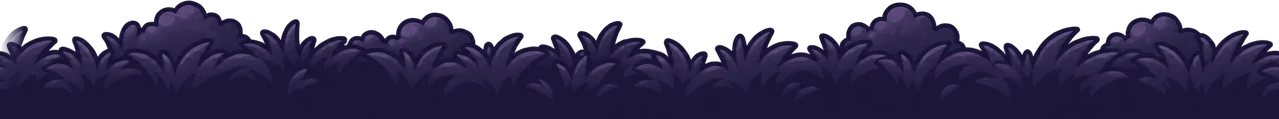
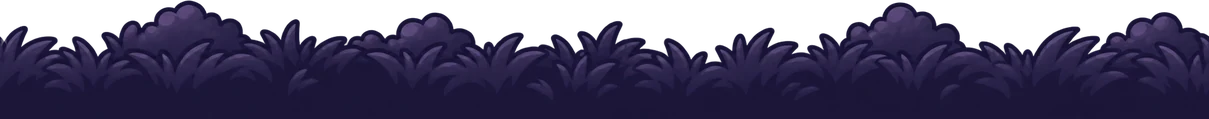
Boyalı arka planlar: beş bölgenin beşi
Orman, bulutlar, yörünge ve buz kuşağının üçer katmanı da resimli.
Resimle değişen yalnız sabit silüetler; hareketli detaylar (ateşböcekleri,
kuşlar, nebula, dönen uydular, kuyruklu yıldızlar) kodda kalıp resmin
önünde/arkasında yaşıyor. Katman yerleri bölgeye değil türe göre: dünya
boyu atlas yüksekliğinden türüyor.

Ek yeri: sabit yerden 40 px harman, kenar yükseklikleri tutmayan
katmanlarda ek yerindeki bulutu/kristali yarı saydam iki kopya yapıyordu.
Şimdi sağ uçta sol kenara en çok benzeyen sütundan kesiliyor ve yalnız
12 px harmanlanıyor; kopyalar kayboldu.

diff --git a/js/ciz/katmanlar.js b/js/ciz/katmanlar.js
@@ -246,19 +246,39 @@ function uydu(k,x,y,t,renk){
 
 // --- katmanlar --------------------------------------------------------
 
+// Nebula: gökyüzüne ait, 'lighter' ile yumuşak renk lekeleri (yörünge, buz).
+// [x, y, yarıçap, renk, alfa] — gece güçlenir. Resimli ve resimsiz dalların
+// ortak parçası olduğu için ayrı fonksiyon.
+const YORUNGE_NEBULA = [[3,6.4,6.5,'#6A3D8F',.30],[16,4.6,5,'#2B6F8F',.24],[-6,7.2,4.5,'#8F3D6A',.20]];
+const BUZ_NEBULA     = [[6,5.8,6,'#2B6F8F',.26],[-4,6.6,4.5,'#3D7F8F',.18]];
+function nebula(liste,gece){
+  X.globalCompositeOperation='lighter';
+  for(const [x,y,r,renk,a] of liste){
+    const p=ekrK(x,y,.05), R=r*PM;
+    const g=X.createRadialGradient(p.sx,p.sy,0,p.sx,p.sy,R);
+    g.addColorStop(0,renkA(renk,a*gece)); g.addColorStop(1,renkA(renk,0));
+    X.fillStyle=g; X.beginPath(); X.arc(p.sx,p.sy,R,0,6.3); X.fill();
+  }
+  X.globalCompositeOperation='source-over';
+}
+
 export function uzak(d,b){
   const k=KATMAN.uzak, mevsim=mevsimGoster(d), B=BOL[b];
   const { gunGuc } = gunEvresi(d, B.gunEtki);
   const gece=1-gunGuc;
   const enUzak=sis(b,...ENUZAK,mevsim), uzakR=sis(b,...UZAK,mevsim);
 
-  // Boyalı katman varsa (ciz/boyali.js): resim tepe sırtının ve şehrin
-  // yerine geçiyor. Dönen dolap kodda kalıyor — resmin ARKASINDA, şehrin
-  // üstünden görünüyor; resim sabit, dolap dönüyor.
-  if(b===0 && boyaliVar(0,'uzak')){
-    X.strokeStyle=enUzak; X.fillStyle=enUzak;
-    donmeDolap(K_ENUZAK,2.0,5.1,1.7,d.t);
-    boyaliCiz(0,'uzak',gece,d);
+  // Boyalı katman varsa (ciz/boyali.js): resim bölgenin SABİT silüetlerinin
+  // (sırt, şehir, bulut bankası, gezegen kavsi, buz sırtı) yerine geçiyor.
+  // HAREKETLİ ya da gökyüzüne ait detaylar kodda kalıyor ve resmin arkasında
+  // çiziliyor: dönen dolap, kuşlar, nebula parıltıları, kuyruklu yıldızlar.
+  // Resim sabit, bunlar yaşıyor — sahneyi canlı tutan onlar.
+  if(boyaliVar(b,'uzak')){
+    if(b===0){ X.strokeStyle=enUzak; X.fillStyle=enUzak; donmeDolap(K_ENUZAK,2.0,5.1,1.7,d.t); }
+    else if(b===2) kuslar(.11,d.t,renkA('#0D0820',.6));
+    else if(b===3) nebula(YORUNGE_NEBULA,gece);
+    else if(b===4){ nebula(BUZ_NEBULA,gece); kuyrukluYildizlar(.06,d.t,B.lamba); }
+    boyaliCiz(b,'uzak',gece,d);
   }
   else if(b===0){                          // park: şehir ufku + dönme dolap, önünde tepe sırtı
     X.fillStyle=enUzak;
@@ -279,27 +299,13 @@ export function uzak(d,b){
     X.fillStyle=uzakR; kume(k,3.4,1.9,2.6,260);
   }
   else if(b===4){                          // buz kuşağı: kuyruklu yıldız + buz sırtı
-    X.globalCompositeOperation='lighter';
-    for(const [x,y,r,renk,a] of [[6,5.8,6,'#2B6F8F',.26],[-4,6.6,4.5,'#3D7F8F',.18]]){
-      const p=ekrK(x,y,.05), R=r*PM;
-      const gg=X.createRadialGradient(p.sx,p.sy,0,p.sx,p.sy,R);
-      gg.addColorStop(0,renkA(renk,a*gece)); gg.addColorStop(1,renkA(renk,0));
-      X.fillStyle=gg; X.beginPath(); X.arc(p.sx,p.sy,R,0,6.3); X.fill();
-    }
-    X.globalCompositeOperation='source-over';
+    nebula(BUZ_NEBULA,gece);
     kuyrukluYildizlar(.06,d.t,B.lamba);
     X.fillStyle=enUzak; buzSirti(K_ENUZAK,3.0,2.2,3.2,1300);
     X.fillStyle=uzakR;  buzSirti(k,2.4,1.5,3.6,420);
   }
   else {                                   // yörünge: nebula, uzak ay, gezegen kavsi + atmosfer
-    X.globalCompositeOperation='lighter';
-    for(const [x,y,r,renk,a] of [[3,6.4,6.5,'#6A3D8F',.30],[16,4.6,5,'#2B6F8F',.24],[-6,7.2,4.5,'#8F3D6A',.20]]){
-      const p=ekrK(x,y,.05), R=r*PM;
-      const g=X.createRadialGradient(p.sx,p.sy,0,p.sx,p.sy,R);
-      g.addColorStop(0,renkA(renk,a*gece)); g.addColorStop(1,renkA(renk,0));
-      X.fillStyle=g; X.beginPath(); X.arc(p.sx,p.sy,R,0,6.3); X.fill();
-    }
-    X.globalCompositeOperation='source-over';
+    nebula(YORUNGE_NEBULA,gece);
     const c=ekrK(kamX*k,-46,k), R=52*PM;
     for(let i=3;i>=1;i--){                 // atmosfer: dışa doğru sönen üç halka
       X.strokeStyle=renkA(B.lamba,.09*i); X.lineWidth=PM*.14*(4-i);
@@ -313,7 +319,15 @@ export function orta(d,b){
   const k=KATMAN.orta, mevsim=mevsimGoster(d), B=BOL[b];
   const renk=sis(b,...ORTA,mevsim);
   X.fillStyle=renk;
-  if(b===0 && boyaliVar(0,'orta')){ boyaliCiz(0,'orta',1-gunEvresi(d,B.gunEtki).gunGuc,d); return; }
+  // Boyalı orta katman; ateşböcekleri ve dönen uydular üstünde kodda kalıyor
+  // (yüzen enkaz ve buz kütleleri artık resimde).
+  if(boyaliVar(b,'orta')){
+    const gece=1-gunEvresi(d,B.gunEtki).gunGuc;
+    boyaliCiz(b,'orta',gece,d);
+    if(b===1) atesbocekleri(k,d.t,gece,'#D8F07A');
+    else if(b===3) uydular(k,d.t,renkA('#9FB4D8',.55));
+    return;
+  }
   if(b===0){                               // park: ağaç taçları, önünde çit
     taclar(k,2.0,.35,1.6,40);
     const {sol,sag}=pencere(k,.55), cit=parlaklik(renk,1.55);
@@ -342,12 +356,16 @@ export function orta(d,b){
       X.beginPath(); X.moveTo(p.sx,p.sy-r); X.lineTo(p.sx+r,p.sy); X.lineTo(p.sx,p.sy+r*.8);
       X.lineTo(p.sx-r*.9,p.sy); X.closePath(); X.fill();
     }
-    const u=pencere(k,14);
-    for(let x=u.sol;x<=u.sag;x+=14){
-      const i=Math.round(x/14)+77;
-      if(nz(i*2.9)<.35) continue;
-      uydu(k,x+nz(i)*10,3.5+nz(i*1.3)*3,d.t,acik);
-    }
+    uydular(k,d.t,acik);
+  }
+}
+
+function uydular(k,t,renk){
+  const u=pencere(k,14);
+  for(let x=u.sol;x<=u.sag;x+=14){
+    const i=Math.round(x/14)+77;
+    if(nz(i*2.9)<.35) continue;
+    uydu(k,x+nz(i)*10,3.5+nz(i*1.3)*3,t,renk);
   }
 }
 
@@ -367,7 +385,7 @@ export function on(d,b){
   // `ruzg(d)` değerinden geliyor — çizgilerle hep aynı yöne bakıyorlar.
   const ruz=ruzg(d), siddet=Math.min(1,Math.abs(ruz)/2.2);
   // Boyalı ön plan rüzgâra yatmayı kendisi yapıyor (boyali.js, eğim).
-  if(b===0 && boyaliVar(0,'on')){ boyaliCiz(0,'on',1-gunEvresi(d,BOL[b].gunEtki).gunGuc,d); return; }
+  if(boyaliVar(b,'on')){ boyaliCiz(b,'on',1-gunEvresi(d,BOL[b].gunEtki).gunGuc,d); return; }
 
   if(b>=2){                                 // savrulan iplikler (bulutlar ve ötesi)
     X.strokeStyle=BOL[b].on; X.globalAlpha=.55; X.lineWidth=2.5; X.lineCap='round';

diff --git a/js/ciz/boyali.js b/js/ciz/boyali.js
@@ -8,7 +8,7 @@ import { BOYALI } from './resimler.js';
 // Boyalı arka plan katmanları: dışarıda çizdirilmiş (ChatGPT), sprite.py ile
 // kırpılıp kenarları harmanlanmış resimler. Resmi olan bölge resimle,
 // olmayan eskisi gibi kodla çiziliyor (katmanlar.js) — bölgeler tek tek
-// geçebilsin diye. Şimdilik yalnız park.
+// geçebilsin diye. Beş bölgenin beşi de resimli.
 //
 // Kodun yaptığı üç şey, resmin yapamadığı:
 // 1. TEKRAR. Dünya sonsuz; resim kendi genişliği kadar aralıkla yan yana
@@ -22,15 +22,19 @@ import { BOYALI } from './resimler.js';
 //    biri); resim sabit olduğu için katman tabanından yukarı doğru artan bir
 //    kaydırmayla (shear) EĞİLİYOR — otlar yine rüzgâra yatıyor.
 //
-// Yerler ve boylar burada (tasarım kararı), resmin özellikleri resimler.js'te.
-// yuk: resmin (kırpılmış) dünya yüksekliği, taban: alt kenarının dünya y'si.
-// Sayılar yatay telefonda (740×360) ekran görüntüsüyle seçildi.
-const YER = {
-  0: {
-    uzak: { k:KATMAN.uzak, yuk:3.7, taban:1.4,  perde:[.28,.78], sis:.85, isik:1.18 },
-    orta: { k:KATMAN.orta, yuk:3.3, taban:.05,  perde:[.10,.70], sis:.40, isik:.62 },
-    on:   { k:KATMAN.on,   yuk:1.5, taban:-2.6, perde:[.40,.86], on:true },
-  },
+// Yerler burada (tasarım kararı), resmin özellikleri resimler.js'te. Katman
+// TÜRÜNE göre, bölgeye göre değil: beş bölgenin sayfaları aynı boyutta ve
+// sprite.py'de tür başına aynı ölçekle işlendi, yani dünya boyu atlas
+// yüksekliğinden türüyor (yuk = h / pxm). Uzun çamlı orman orta katmanı
+// böylece parkın ağaçlarından kendiliğinden daha uzun çıkıyor.
+//   pxm  : atlas px / dünya metresi (park ekran görüntüsüyle seçildi:
+//          uzak 3.7 m, orta 3.3 m, ön 1.5 m)
+//   taban: resmin alt kenarının dünya y'si
+//   perde: gece perdesinin alfası [öğle, gece yarısı]
+const TUR = {
+  uzak: { k:KATMAN.uzak, pxm:70.5, taban:1.4,  perde:[.28,.78], sis:.85, isik:1.18 },
+  orta: { k:KATMAN.orta, pxm:88.8, taban:.05,  perde:[.10,.70], sis:.40, isik:.62 },
+  on:   { k:KATMAN.on,   pxm:79.3, taban:-2.6, perde:[.40,.86], on:true },
 };
 
 const BOYA = {};
@@ -49,7 +53,7 @@ for(const b in BOYALI){
 // zemin↔ufuk karışımı + parlaklık). Böylece resimli ve resimsiz bölgeler
 // gece aynı tonlara iniyor. Ön plan bölgenin ön rengine (neredeyse siyah).
 function perdeRenk(b, ad){
-  const B = BOL[b], y = YER[b][ad];
+  const B = BOL[b], y = TUR[ad];
   return y.on ? B.on : parlaklik(renkKar(B.yer, B.gok[2], y.sis), y.isik);
 }
 function perdeKur(g, b, ad){
@@ -67,10 +71,10 @@ export const boyaliVar = (b, ad) => !!(BOYA[b] && BOYA[b][ad] && BOYA[b][ad].haz
 
 // gece: 0 öğle, 1 gece yarısı.
 export function boyaliCiz(b, ad, gece, d){
-  const g = BOYA[b][ad], y = YER[b][ad], k = y.k;
+  const g = BOYA[b][ad], y = TUR[ad], k = y.k;
   const a = lerp(y.perde[0], y.perde[1], gece);
-  const mpp = y.yuk / g.h, tg = g.w * mpp;            // tekrar genişliği (m)
-  const ust = ekrK(0, y.taban + y.yuk, k).sy, alt = ekrK(0, y.taban, k).sy;
+  const yuk = g.h / y.pxm, tg = g.w / y.pxm;           // dünya boyu ve tekrar genişliği (m)
+  const ust = ekrK(0, y.taban + yuk, k).sy, alt = ekrK(0, y.taban, k).sy;
   const h = alt - ust, wEkran = tg*PM;
   const yari = (W/PM)*.62 + tg;
   const bas = Math.floor((kamX*k - yari)/tg)*tg, son = kamX*k + yari;

diff --git a/js/ciz/resimler.js b/js/ciz/resimler.js
@@ -26,5 +26,9 @@ export const ISKELET = { dosya:'resim/iskelet.webp',
 // Boyalı arka plan katmanları, bölge numarasıyla. Kenarları harmanlanmış,
 // yatayda kesintisiz tekrar ediyor. alt: taban rengi (altı bununla doluyor).
 export const BOYALI = {
-  0: { uzak:{dosya:'resim/park-uzak.webp',w:2132,h:261,alt:'#6e8d91'}, orta:{dosya:'resim/park-orta.webp',w:1492,h:293,alt:'#375266'}, on:{dosya:'resim/park-on.webp',w:1279,h:119,alt:'#1b1638'} }
+  0: { uzak:{dosya:'resim/park-uzak.webp',w:1957,h:261,alt:'#6e8d91'}, orta:{dosya:'resim/park-orta.webp',w:1493,h:293,alt:'#375266'}, on:{dosya:'resim/park-on.webp',w:1209,h:119,alt:'#1b1638'} },
+  1: { uzak:{dosya:'resim/orman-uzak.webp',w:2042,h:260,alt:'#649492'}, orta:{dosya:'resim/orman-orta.webp',w:1389,h:322,alt:'#1c5050'}, on:{dosya:'resim/orman-on.webp',w:1253,h:130,alt:'#081913'} },
+  2: { uzak:{dosya:'resim/bulutlar-uzak.webp',w:1900,h:333,alt:'#e6c9ef'}, orta:{dosya:'resim/bulutlar-orta.webp',w:1464,h:286,alt:'#b47ad5'}, on:{dosya:'resim/bulutlar-on.webp',w:1090,h:127,alt:'#1d1639'} },
+  3: { uzak:{dosya:'resim/yorunge-uzak.webp',w:2151,h:280,alt:'#6278ba'}, orta:{dosya:'resim/yorunge-orta.webp',w:1506,h:267,alt:'#3f4d6d'}, on:{dosya:'resim/yorunge-on.webp',w:1218,h:142,alt:'#0e0f28'} },
+  4: { uzak:{dosya:'resim/buz-uzak.webp',w:1767,h:255,alt:'#79c8f4'}, orta:{dosya:'resim/buz-orta.webp',w:1444,h:258,alt:'#057ed1'}, on:{dosya:'resim/buz-on.webp',w:1204,h:140,alt:'#10163c'} }
 };

diff --git a/sw.js b/sw.js
@@ -1,6 +1,6 @@
 // derle.py tarafindan uretildi — elle duzenleme, derlemede uzerine yazilir.
 // Dosya listesi derle.py'deki SIRA'dan turetiliyor.
-const SURUM = 'salincak-acfcd4c107';
+const SURUM = 'salincak-5f9e521270';
 const DOSYALAR = [
   './',
   'index.html',
@@ -50,13 +50,25 @@ const DOSYALAR = [
   'js/ui/hud.js',
   'js/main.js',
   'resim/astronot.png',
+  'resim/bulutlar-on.webp',
+  'resim/bulutlar-orta.webp',
+  'resim/bulutlar-uzak.webp',
+  'resim/buz-on.webp',
+  'resim/buz-orta.webp',
+  'resim/buz-uzak.webp',
   'resim/cocuk.png',
   'resim/hayalet.png',
   'resim/iskelet.webp',
   'resim/kedi.png',
+  'resim/orman-on.webp',
+  'resim/orman-orta.webp',
+  'resim/orman-uzak.webp',
   'resim/park-on.webp',
   'resim/park-orta.webp',
   'resim/park-uzak.webp',
+  'resim/yorunge-on.webp',
+  'resim/yorunge-orta.webp',
+  'resim/yorunge-uzak.webp',
 ];
 
 self.addEventListener('install', e => {
